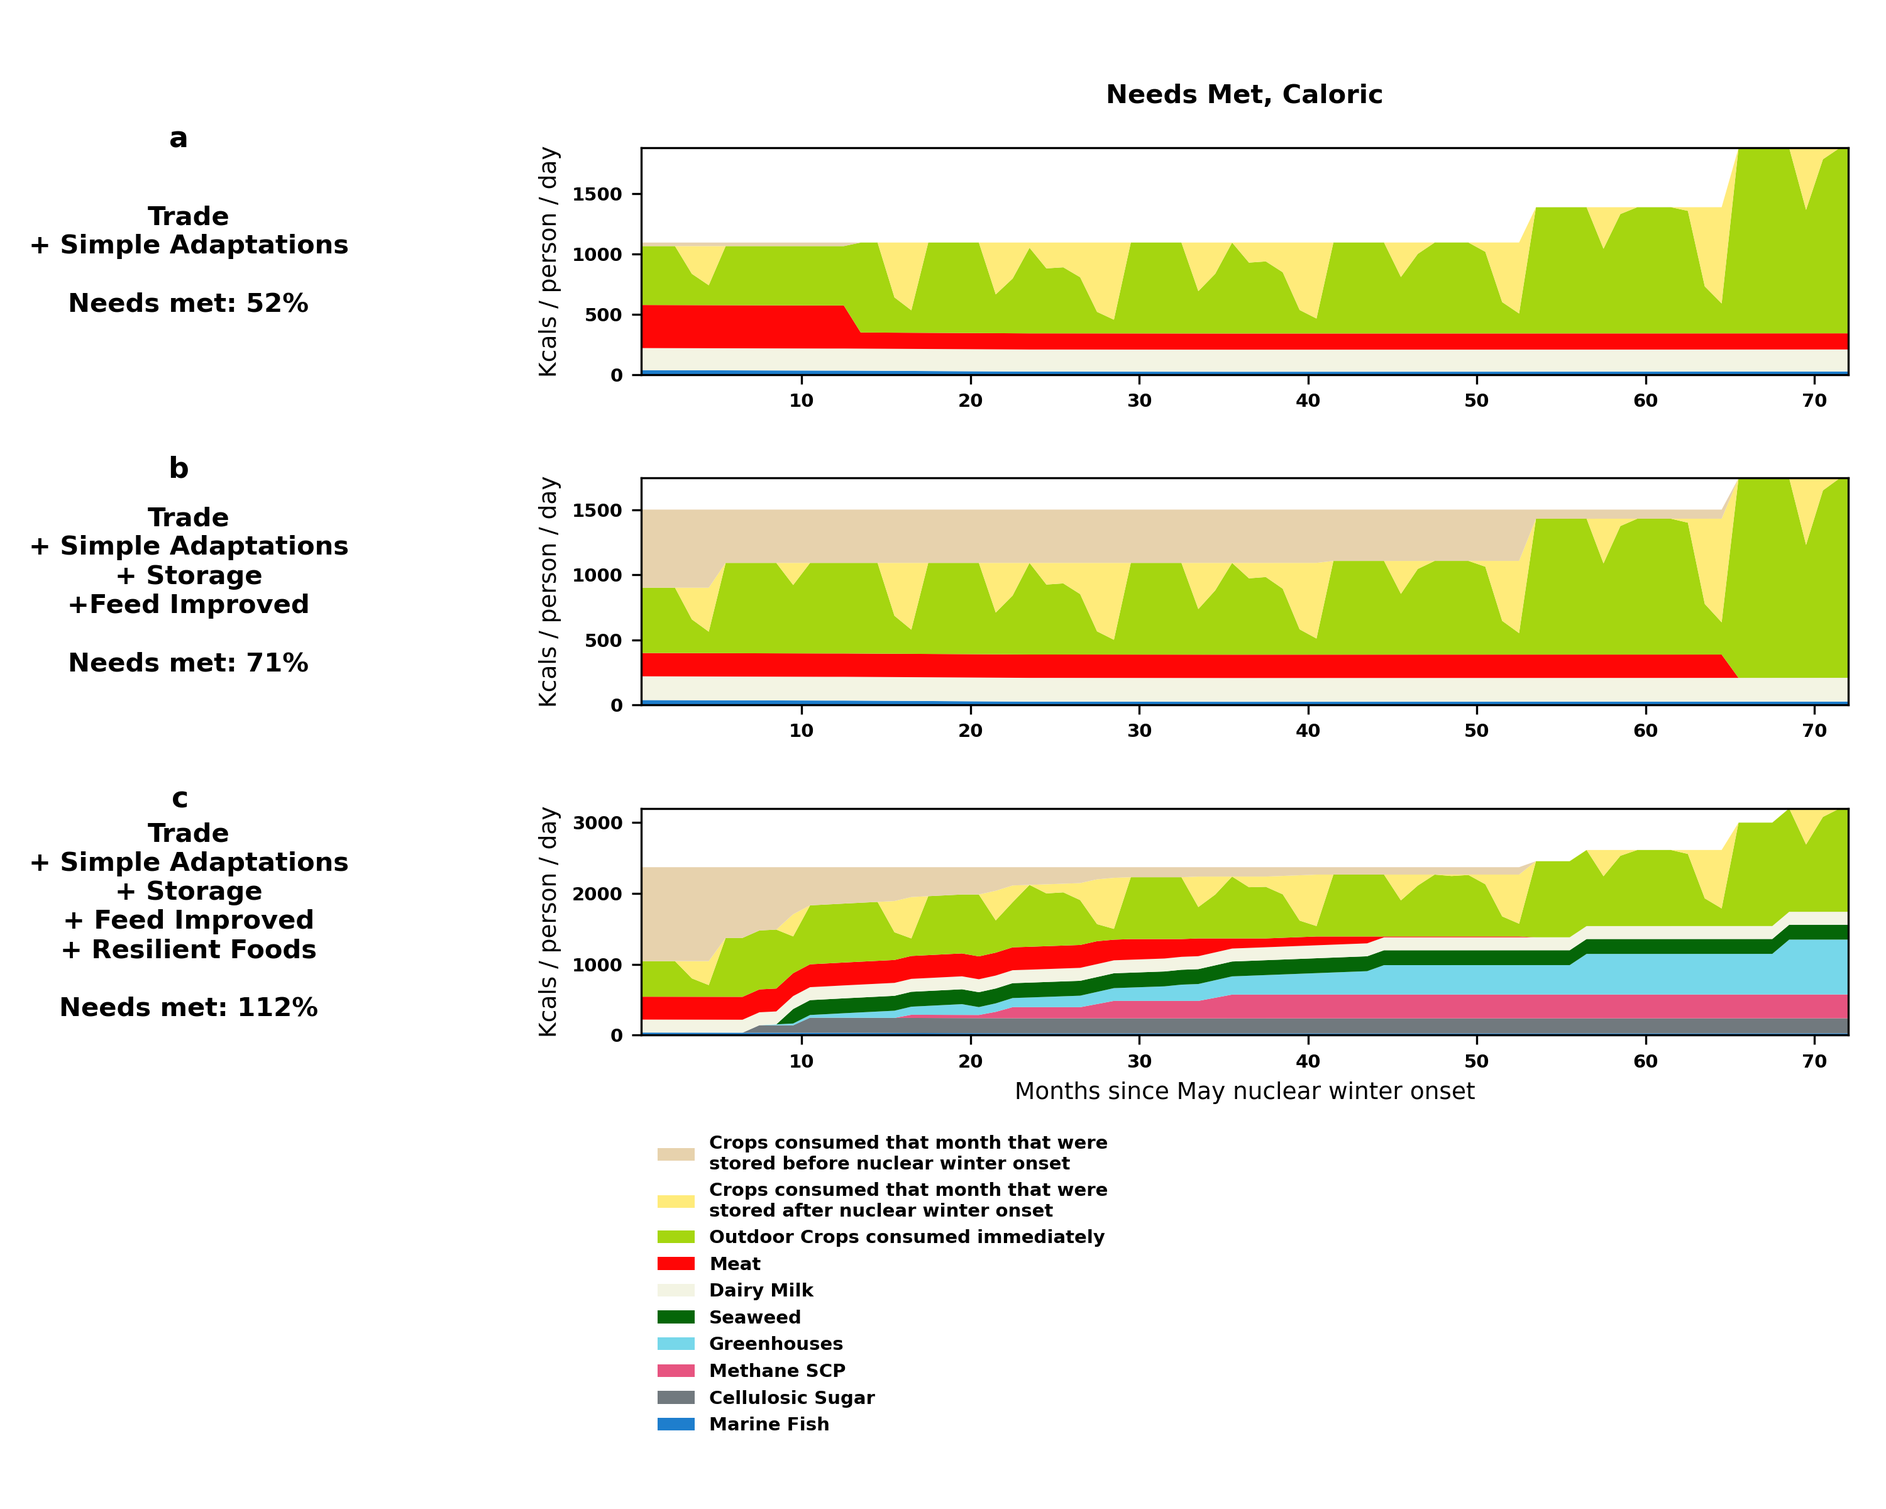
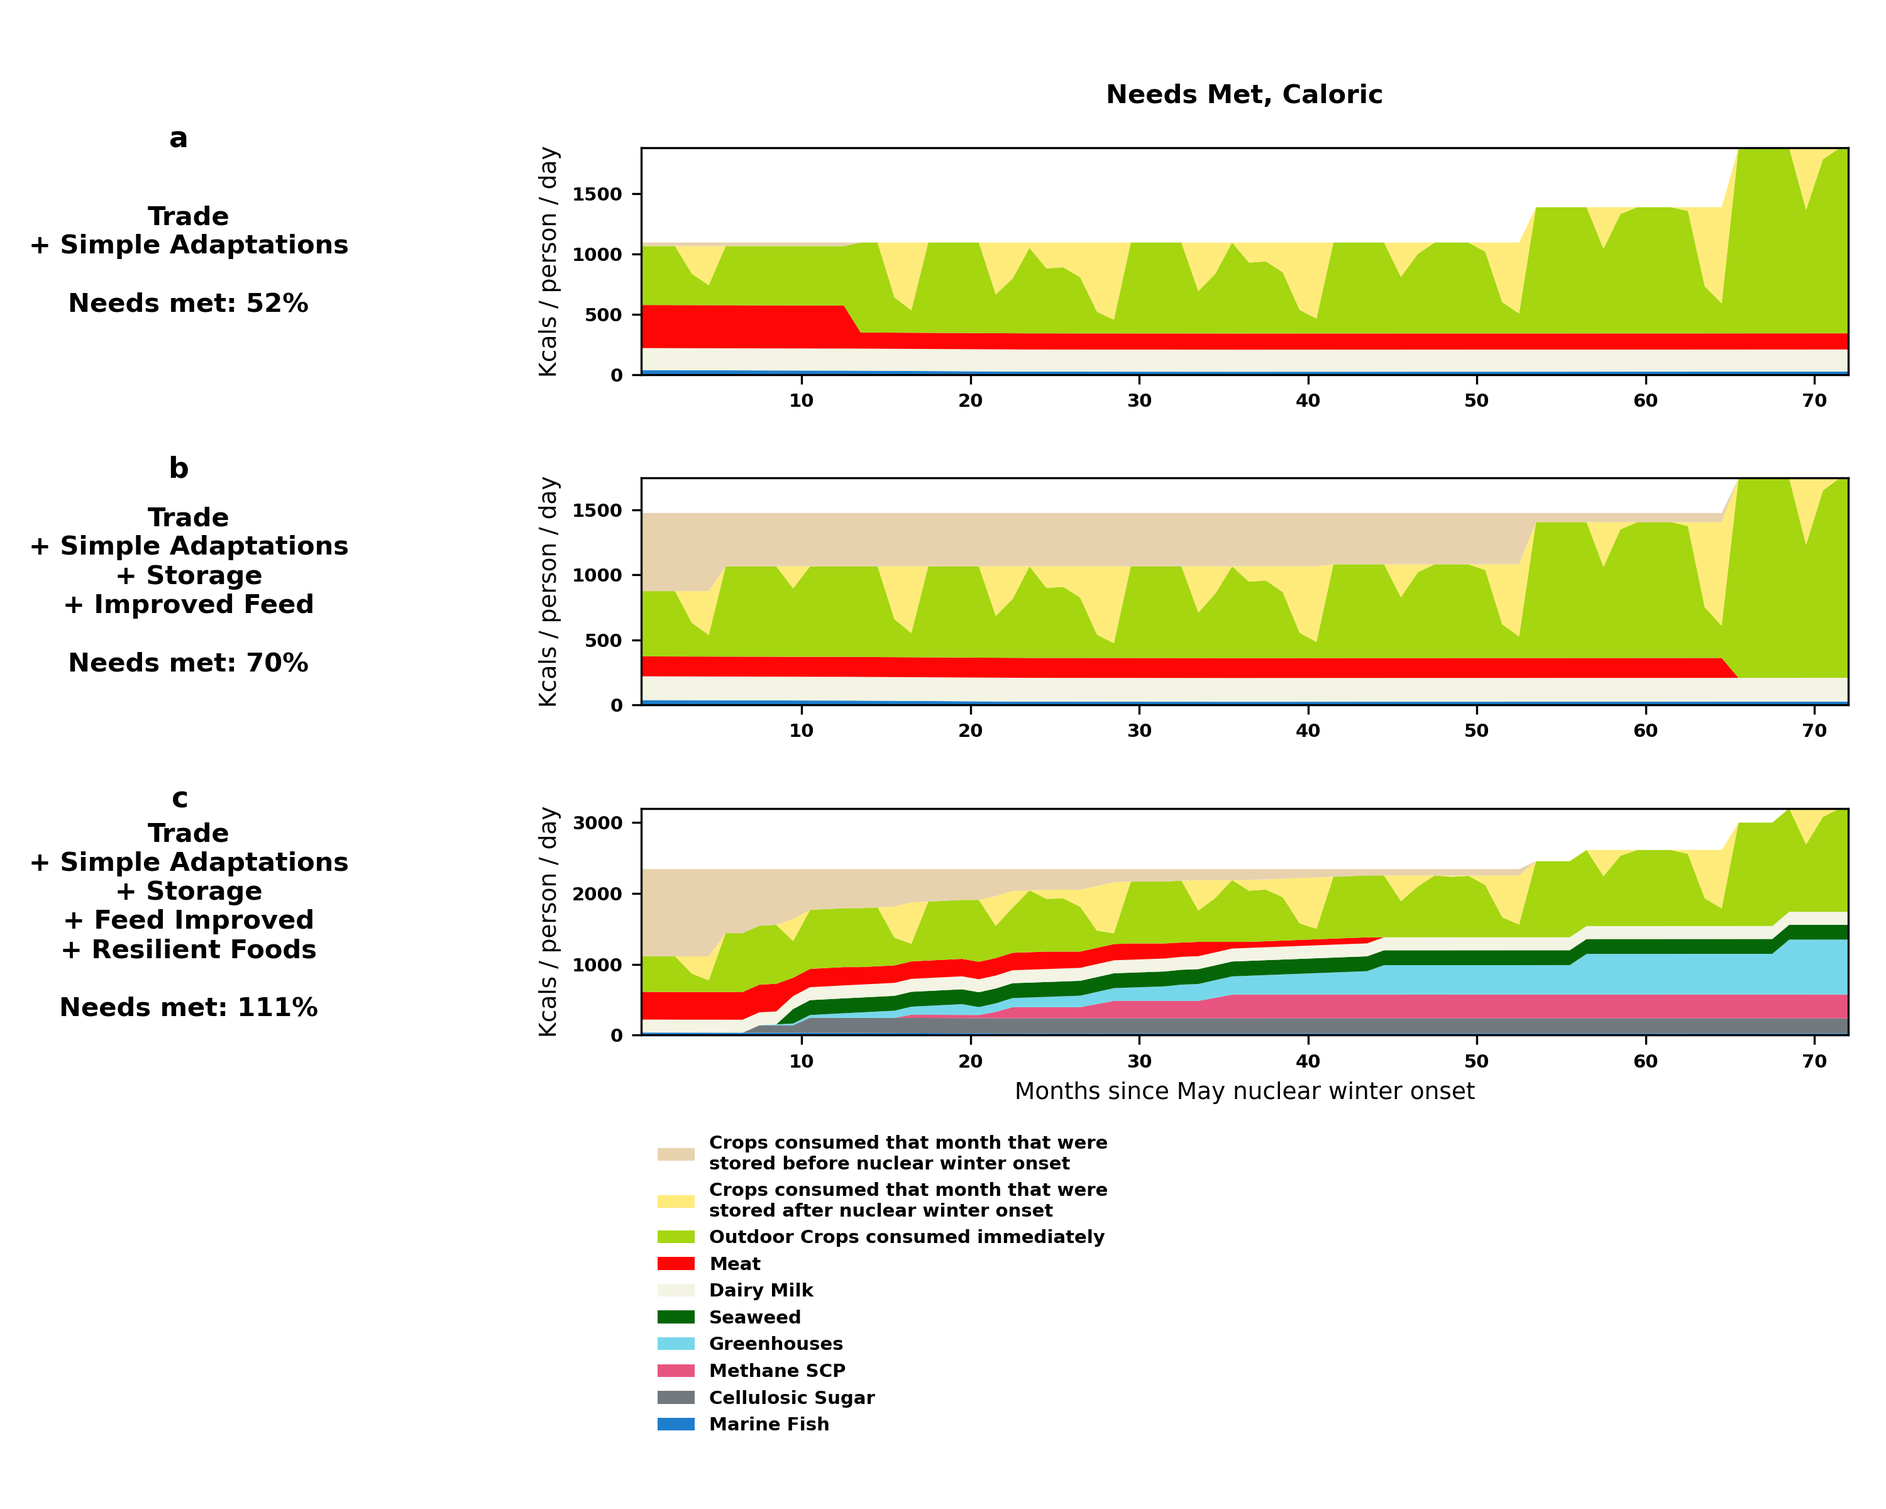
added more plottig statemets to the plot manuscrit file,and fixed smallstuff

diff --git a/plot_manuscript_figures.py b/plot_manuscript_figures.py
@@ -21,6 +21,9 @@ repo_root = git.Repo(".", search_parent_directories=True).working_dir
 
 
 # COMMAND LINE INTERFACE FUNCTIONS #
+RUN_FIGURE_1_WITH_BASELINE_CLIMATE = False
+RUN_FIGURE_1_LEAVING_TYPICAL_BUFFERS = False
+RUN_FIGURE_1_NO_STORAGE = True
 
 
 def print_usage():
@@ -252,11 +255,17 @@ def call_scenario_runner_and_set_options(
     assert "nutrition" not in this_simulation_copy, "ERROR: nutrition overwritten"
     assert "fat" not in this_simulation_copy, "ERROR: fat overwritten"
     assert "protein" not in this_simulation_copy, "ERROR: protein overwritten"
+    if RUN_FIGURE_1_WITH_BASELINE_CLIMATE:
+        this_simulation_copy["crop_disruption"] = "zero"
+        this_simulation_copy["grasses"] = "baseline"
+        this_simulation_copy["fish"] = "baseline"
+    else:
+        this_simulation_copy["crop_disruption"] = "country_nuclear_winter"
+        this_simulation_copy["grasses"] = "country_nuclear_winter"
+        this_simulation_copy["fish"] = "nuclear_winter"
+
     this_simulation_copy["scale"] = "country"
     this_simulation_copy["NMONTHS"] = 120
-    this_simulation_copy["crop_disruption"] = "country_nuclear_winter"
-    this_simulation_copy["grasses"] = "country_nuclear_winter"
-    this_simulation_copy["fish"] = "nuclear_winter"
     this_simulation_copy["intake_constraints"] = "enabled"
     this_simulation_copy["nutrition"] = "catastrophe"
 
@@ -326,7 +335,15 @@ def recalculate_plot_1():
     this_simulation["meat_strategy"] = "baseline_breeding"
 
     this_simulation["stored_food"] = "baseline"
-    this_simulation["end_simulation_stocks_ratio"] = "no_stored_between_years"
+
+    if RUN_FIGURE_1_LEAVING_TYPICAL_BUFFERS:
+        this_simulation[
+            "end_simulation_stocks_ratio"
+        ] = "baseline_no_stored_between_years"
+        suffix_storage = ""
+    else:
+        this_simulation["end_simulation_stocks_ratio"] = "no_stored_between_years"
+
     this_simulation["seasonality"] = "country"
 
     this_simulation["cull"] = "do_eat_culled"
@@ -371,14 +388,24 @@ def recalculate_plot_1():
     )
 
     # WORST CASE + EAT AND STORE MEAT + SHUT OFF BREEDING + REDUCE WASTE #
-    RUN_SIMULATION_LEAVING_TYPICAL_BUFFERS = True
-    if RUN_SIMULATION_LEAVING_TYPICAL_BUFFERS:
+    if RUN_FIGURE_1_LEAVING_TYPICAL_BUFFERS:
+        assert (
+            not RUN_FIGURE_1_NO_STORAGE
+        ), "ERROR: You can't run typical buffers if there's no storage..."
         this_simulation["end_simulation_stocks_ratio"] = "baseline"
-        suffix_storage = ""
+        suffix_storage = " (Reduced)"
     else:
         this_simulation["end_simulation_stocks_ratio"] = "zero"
-        suffix_storage = " (Reduced)"
-    simple_adaptations_culling_title = f"Simple Adaptations,\n Storage {suffix_storage}"
+        suffix_storage = ""
+
+    if RUN_FIGURE_1_NO_STORAGE:
+        this_simulation["end_simulation_stocks_ratio"] = "no_stored_between_years"
+        include_storage_resilient_foods_tag = ", No Storage"
+        suffix_storage = " Removed"
+    else:
+        include_storage_resilient_foods_tag = ""
+
+    simple_adaptations_culling_title = f"Simple Adaptations,\n Storage{suffix_storage}"
 
     simple_adaptations_culling = call_scenario_runner_and_set_options(
         this_simulation, simple_adaptations_culling_title  # , countries_list=["CHN"]
@@ -393,38 +420,48 @@ def recalculate_plot_1():
     )
 
     this_simulation["scenario"] = "all_resilient_foods"
-    all_resilient_foods_title = "Example Scenario\n + Resilient Foods"
+    all_resilient_foods_title = (
+        f"Example Scenario\n + Resilient Foods{include_storage_resilient_foods_tag}"
+    )
     example_scenario_resilient_foods = call_scenario_runner_and_set_options(
         this_simulation, all_resilient_foods_title  # , countries_list=["CHN"]
     )
 
     # WORST CASE + SIMPLE_ADAPTATIONS + STORAGE + CULLING + ALL RESILIENT FOODS
-    seaweed_title = "Example Scenario\n + Seaweed"
+    seaweed_title = f"Example Scenario\n + Seaweed{include_storage_resilient_foods_tag}"
     this_simulation["scenario"] = "seaweed"
     seaweed = call_scenario_runner_and_set_options(
         this_simulation, seaweed_title  # , countries_list=["CHN"]
     )
 
     this_simulation["scenario"] = "methane_scp"
-    methane_scp_title = "Example Scenario\n + Methane SCP"
+    methane_scp_title = (
+        f"Example Scenario\n + Methane SCP{include_storage_resilient_foods_tag}"
+    )
     methane_scp = call_scenario_runner_and_set_options(
         this_simulation, methane_scp_title  # , countries_list=["CHN"]
     )
 
     this_simulation["scenario"] = "cellulosic_sugar"
-    cs_title = "Example Scenario\n+ Cellulosic Sugar"
+    cs_title = (
+        f"Example Scenario\n+ Cellulosic Sugar{include_storage_resilient_foods_tag}"
+    )
     cellulosic_sugar = call_scenario_runner_and_set_options(
         this_simulation, cs_title  # , countries_list=["CHN"]
     )
 
     this_simulation["scenario"] = "relocated_crops"
-    cold_crops_title = "Example Scenario\n+ Cold Tolerant Crops"
+    cold_crops_title = (
+        f"Example Scenario\n+ Cold Tolerant Crops{include_storage_resilient_foods_tag}"
+    )
     cold_crops = call_scenario_runner_and_set_options(
         this_simulation, cold_crops_title  # , countries_list=["CHN"]
     )
 
     this_simulation["scenario"] = "greenhouse"
-    greenhouse_title = "Example Scenario\n+ Greenhouse Crops"
+    greenhouse_title = (
+        f"Example Scenario\n+ Greenhouse Crops{include_storage_resilient_foods_tag}"
+    )
     greenhouses = call_scenario_runner_and_set_options(
         this_simulation, greenhouse_title  # , countries_list=["CHN"]
     )
@@ -456,6 +493,14 @@ def recalculate_plot_1():
     ratios[cs_title] = cellulosic_sugar["pop_fed_percent"]
     ratios[cold_crops_title] = cold_crops["pop_fed_percent"]
     ratios[greenhouse_title] = greenhouses["pop_fed_percent"]
+    if RUN_FIGURE_1_LEAVING_TYPICAL_BUFFERS:
+        print("\nTypical buffers remain in place in figure 1\n")
+
+    if RUN_FIGURE_1_WITH_BASELINE_CLIMATE:
+        print("\nBaseline climate run for figure 1\n")
+
+    if RUN_FIGURE_1_NO_STORAGE:
+        print("\nStorage removed all scenarios figure 1\n")
 
     return worlds, ratios
 
@@ -567,7 +612,7 @@ def recalculate_plot_3():
     this_simulation["end_simulation_stocks_ratio"] = "zero"
     this_simulation["meat_strategy"] = "feed_only_ruminants"
     this_simulation["shutoff"] = "long_delayed_shutoff"
-    title_example_scenario = "Trade\n+ Simple Adaptations\n+ Storage\n+Feed Improved"
+    title_example_scenario = "Trade\n+ Simple Adaptations\n+ Storage\n+ Improved Feed"
     results_example_scenario = call_global_scenario_runner(
         this_simulation, title_example_scenario
     )

diff --git a/src/scenarios/run_scenario.py b/src/scenarios/run_scenario.py
@@ -660,19 +660,9 @@ class ScenarioRunner:
                 ),
             },
             {
-                "country_code": "DJI",
-                "crop_disruption": ["country_nuclear_winter"],
-                "cull": ["do_eat_culled", "dont_eat_culled"],
-                "meat_strategy": ["baseline_breeding", "reduce_breeding"],
-                "scenario": [
-                    "no_resilient_foods",
-                    "seaweed",
-                    "methane_scp",
-                    "industrial_foods",
-                    "cellulosic_sugar",
-                ],
-                "seasonality": ["no_seasonality"],
-                "stored_food": ["baseline"],
+                "country_code": "ALB",
+                "cull": ["do_eat_culled"],
+                "scenario": ["all_resilient_foods", "seaweed"],
                 "shutoff": [
                     "continued",
                     "long_delayed_shutoff",
@@ -680,52 +670,8 @@ class ScenarioRunner:
                 ],
                 "CORRECTION": {"shutoff": "immediate"},
                 "WARNING": (
-                    "WARNING: DJI cannot run with baseline breeding under these specific conditions. "
-                    " Changing to reduced breeding in this scenario as a patch."
-                ),
-            },
-            {
-                "country_code": "NAM",
-                "crop_disruption": ["country_nuclear_winter"],
-                "meat_strategy": ["baseline_breeding", "reduce_breeding"],
-                "shutoff": [
-                    "continued_after_10_percent_fed",
-                ],
-                "CORRECTION": {"shutoff": "continued"},
-                "WARNING": (
-                    "WARNING: NAM cannot run with baseline breeding under these specific conditions. "
-                    " Changing to reduced breeding in this scenario as a patch."
-                ),
-            },
-            {
-                "country_code": "BOL",
-                "crop_disruption": ["country_nuclear_winter"],
-                "meat_strategy": ["baseline_breeding", "reduce_breeding"],
-                "cull": ["do_eat_culled"],
-                "shutoff": [
-                    "continued_after_10_percent_fed",
-                ],
-                "CORRECTION": {"shutoff": "continued"},
-                "WARNING": (
-                    "WARNING: BOL cannot run with these specific conditions. "
-                    " Changing to continued feed/biofuel after 100% fed in this country as a patch."
-                ),
-            },
-            {
-                "country_code": "LSO",
-                "crop_disruption": ["country_nuclear_winter"],
-                "meat_strategy": ["feed_only_ruminants"],
-                # "end_simulation_stocks_ratio": ["zero"],
-                "cull": ["do_eat_culled"],
-                "shutoff": [
-                    "long_delayed_shutoff_after_10_percent_fed",
-                    "continued_after_10_percent_fed",
-                    "long_delayed_shutoff",
-                ],
-                "CORRECTION": {"meat_strategy": "reduce_breeding"},
-                "WARNING": (
-                    "WARNING: LSO cannot run with these specific conditions. "
-                    " Changing to reduced breeding for all animals"
+                    "WARNING: ALB cannot run with seaweed under these specific conditions. "
+                    " Removing feed and biofuel demand from this scenario as a patch."
                 ),
             },
             {
@@ -739,15 +685,37 @@ class ScenarioRunner:
                     "industrial_foods",
                     "cellulosic_sugar",
                 ],
-                "crop_disruption": ["country_nuclear_winter"],
+                "crop_disruption": ["zero", "baseline"],
                 "meat_strategy": ["feed_only_ruminants"],
-                "end_simulation_stocks_ratio": ["zero"],
+                "end_simulation_stocks_ratio": ["zero", "baseline"],
                 "cull": ["do_eat_culled"],
                 "shutoff": ["long_delayed_shutoff"],
-                "CORRECTION": {"meat_strategy": "reduce_breeding"},
+                "CORRECTION": {"shutoff": "immediate"},
                 "WARNING": (
                     "WARNING: ECU cannot run with these specific conditions. "
-                    "Changing to reduced breeding for all animals"
+                    "Changing scenario to shut off all feed and biofuels immediately."
+                ),
+            },
+            {
+                "country_code": "ECU",
+                "scenario": [
+                    "all_resilient_foods",
+                    "seaweed",
+                    "greenhouse",
+                    "methane_scp",
+                    "relocated_crops",
+                    "industrial_foods",
+                    "cellulosic_sugar",
+                ],
+                "crop_disruption": ["zero", "baseline"],
+                "meat_strategy": ["feed_only_ruminants"],
+                "end_simulation_stocks_ratio": ["zero", "baseline"],
+                "cull": ["do_eat_culled"],
+                "shutoff": ["long_delayed_shutoff"],
+                "CORRECTION": {"shutoff": "immediate"},
+                "WARNING": (
+                    "WARNING: ECU cannot run with these specific conditions. "
+                    "Changing scenario to shut off all feed and biofuels immediately."
                 ),
             },
         ]
@@ -903,12 +871,20 @@ class ScenarioRunner:
             constants_for_params = scenario_loader.set_stored_food_buffer_as_baseline(
                 constants_for_params
             )
+        elif (
+            scenario_option_copy["end_simulation_stocks_ratio"]
+            == "baseline_no_stored_between_years"
+        ):
+            constants_for_params = scenario_loader.set_stored_food_buffer_as_baseline_and_no_stored_between_years(
+                constants_for_params
+            )
         else:
             scenario_is_correct = False
 
-            assert (
-                scenario_is_correct
-            ), "You must specify 'end_simulation_stocks_ratio' key as zero, no_stored_between_years, or baseline"
+            assert scenario_is_correct, (
+                "You must specify 'end_simulation_stocks_ratio' key as zero, no_stored_between_years, "
+                "baseline_no_stored_between_years, or baseline"
+            )
 
         # SHUTOFF
         if scenario_option_copy["shutoff"] == "immediate":

diff --git a/src/scenarios/scenarios.py b/src/scenarios/scenarios.py
@@ -474,9 +474,9 @@ class Scenarios:
         )
 
         constants_for_params["ROTATION_IMPROVEMENTS"] = {}
-        constants_for_params["ROTATION_IMPROVEMENTS"]["POWER_LAW_IMPROVEMENT"] = (
-            country_data["power_law_improvement"]
-        )
+        constants_for_params["ROTATION_IMPROVEMENTS"][
+            "POWER_LAW_IMPROVEMENT"
+        ] = country_data["power_law_improvement"]
 
         # annual tons cattle beef production
         constants_for_params["TONS_BEEF_ANNUAL"] = country_data["beef"]
@@ -520,9 +520,9 @@ class Scenarios:
         ]
 
         # Milk yield in kg per milk-bearing animal per year
-        constants_for_params["MILK_YIELD_KG_PER_MILK_BEARING_ANIMAL_PER_YEAR"] = (
-            country_data["milk_yield_kg_per_milk_bearing_animal_per_year"]
-        )
+        constants_for_params[
+            "MILK_YIELD_KG_PER_MILK_BEARING_ANIMAL_PER_YEAR"
+        ] = country_data["milk_yield_kg_per_milk_bearing_animal_per_year"]
 
         # Meat yield in kg per animal
         constants_for_params["KG_MEAT_PER_PIG"] = country_data["kg_meat_per_pig"]
@@ -985,6 +985,22 @@ class Scenarios:
         self.scenario_description += "\nstocks available at end of simulation"
         assert not self.STORED_FOOD_END_SIM_SET
         constants_for_params["STORE_FOOD_BETWEEN_YEARS"] = True
+        constants_for_params["END_SIMULATION_STOCKS_RATIO"] = 1
+
+        self.STORED_FOOD_END_SIM_SET = True
+        return constants_for_params
+
+    def set_stored_food_buffer_as_baseline_and_no_stored_between_years(
+        self, constants_for_params
+    ):
+        """
+        Sets the stored food buffer as 100% -- the typical stored food buffer
+        in ~2020 left at the end of the simulation.
+
+        """
+        self.scenario_description += "\nstocks available at end of simulation"
+        assert not self.STORED_FOOD_END_SIM_SET
+        constants_for_params["STORE_FOOD_BETWEEN_YEARS"] = False
         constants_for_params["END_SIMULATION_STOCKS_RATIO"] = 1
 
         self.STORED_FOOD_END_SIM_SET = True
@@ -1522,9 +1538,9 @@ class Scenarios:
     def methane_scp(self, constants_for_params):
         # (one month delay built into industrial food numbers)
         constants_for_params["DELAY"]["INDUSTRIAL_FOODS_MONTHS"] = 2
-        constants_for_params["INDUSTRIAL_FOODS_SLOPE_MULTIPLIER"] = (
-            1  # default values from CS and SCP papers
-        )
+        constants_for_params[
+            "INDUSTRIAL_FOODS_SLOPE_MULTIPLIER"
+        ] = 1  # default values from CS and SCP papers
 
         constants_for_params["ADD_METHANE_SCP"] = True
         return constants_for_params
@@ -1532,9 +1548,9 @@ class Scenarios:
     def cellulosic_sugar(self, constants_for_params):
         # (one month delay built into industrial food numbers)
         constants_for_params["DELAY"]["INDUSTRIAL_FOODS_MONTHS"] = 2
-        constants_for_params["INDUSTRIAL_FOODS_SLOPE_MULTIPLIER"] = (
-            1  # default values from CS and SCP papers
-        )
+        constants_for_params[
+            "INDUSTRIAL_FOODS_SLOPE_MULTIPLIER"
+        ] = 1  # default values from CS and SCP papers
 
         constants_for_params["ADD_CELLULOSIC_SUGAR"] = True
         return constants_for_params

diff --git a/src/food_system/stored_food.py b/src/food_system/stored_food.py
@@ -101,7 +101,9 @@ class StoredFood:
             stocks_at_start_of_month * fraction_stored_food_to_use
             - lowest_stocks * end_simulation_ratio
         )
-
+        assert (
+            self.TONS_DRY_CALORIC_EQIVALENT_SF >= 0
+        ), "ERROR: Negative stored food is impossible."
         # convert to billion kcals
         self.INITIAL_SF_KCALS = self.TONS_DRY_CALORIC_EQIVALENT_SF * 4e6 / 1e9
 
